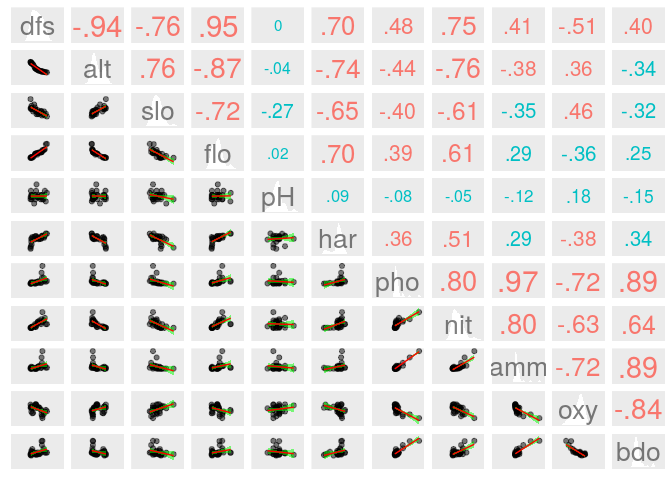
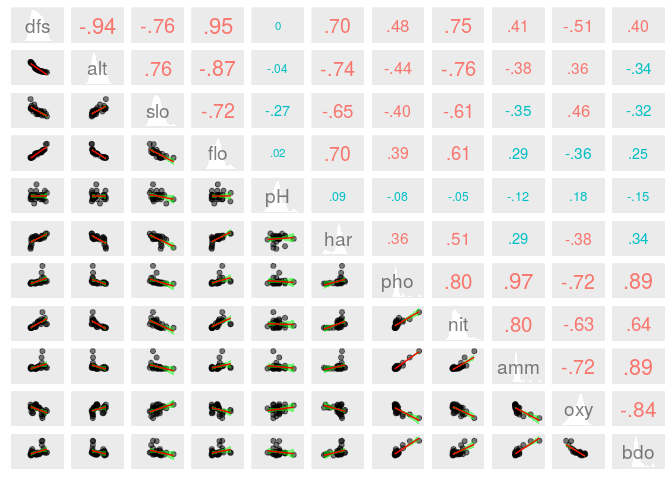
new plots added and introduction-to-r updated

diff --git a/ref/introduccion-a-r.md b/ref/introduccion-a-r.md
@@ -67,11 +67,11 @@ help.search("matrix") #Busca la palabra clave en las ayudas de los paquetes
 Visualización de datos
 ----------------------
 
-Wickham & Grolemund (2017) afirman que, durante la producción de resultados comunicables, subyace la necesidad de realizar el análisis exploratorio de datos (AED o EDA) lo más rápidamente posible. El esquema a continuación, de la misma fuente, resume este proceso:
+Wickham & Grolemund (2017) afirman que, durante la producción de resultados comunicables, subyace la necesidad de realizar el **análisis exploratorio de datos (AED o EDA)** lo más rápidamente posible, pero nunca obviarlo. Subyace la idea de que es necesario aligerar el EDA para descubrir tantos patrones como sea posible sin que haya "pelearse" con los datos para hacer simples gráficos. Esto permitirá al investigador/a concentrarse en interpretar resultados. El esquema a continuación, de la misma fuente, resume este proceso:
 
 <img src="https://es.r4ds.hadley.nz/diagrams_w_text_as_path/es/data-science-explore.svg" width="65%" />
 
-Las múltiples herramientas ofrecidas por los paquetes de la colección `tidyverse` te servirán para agilizar sustancialmente el EDA. Los paquetes `dplyr`, `tidyr` y otros, te ayudarán a importar, ordenar y transformar datos, mientras `ggplot2` te ayudará a crear gráficos estilizados eficientemente. Wickham & Grolemund (2017) aseguran que estas herramientas mantienen la motivación en el aprendizaje por sus flujos de trabajo lineales.
+**Las múltiples herramientas ofrecidas por los paquetes de la colección `tidyverse` te servirán para agilizar sustancialmente el EDA**. Los paquetes `dplyr`, `tidyr` y otros, te ayudarán a importar, ordenar y transformar datos, mientras `ggplot2` te ayudará a crear gráficos estilizados eficientemente. Wickham & Grolemund (2017) aseguran que estas herramientas mantienen la motivación en el aprendizaje por sus flujos de trabajo lineales.
 
 ### El conjunto de datos `doubs`
 
@@ -84,7 +84,7 @@ data(doubs)
 
 > **Nota**. Si no usas el servidor RStudio habilitado por el profesor, instala `ade4` con `install.packages('ade4', dependencies = T)`
 
-La sentencia anterior carga el objeto `doubs` a memoria, pero no lo imprime en pantalla. `doubs` es una lista de 4 tablas o *data.frame*, etiquetadas como `env`-matriz ambiental, `fish`-matriz de comunidad usando abundancia semi-cuantitativa (más explicación abajo), `xy`-matriz de coordenadas de las muestras y `species`-nombres de las 27 especies encontradas. Las filas de los tres primeros *data.frame* corresponden a 30 sitios muestreados a lo largo del río franco-suizo Doubs.
+La sentencia anterior carga el objeto `doubs` a memoria, pero no lo imprime en pantalla. `doubs` es una lista de 4 tablas o `data.frame`, etiquetadas como `env`-matriz ambiental, `fish`-matriz de comunidad usando abundancia semi-cuantitativa (más explicación abajo), `xy`-matriz de coordenadas de las muestras y `species`-nombres de las 27 especies encontradas. Las filas de los tres primeros `data.frame` corresponden a 30 sitios muestreados a lo largo del río franco-suizo Doubs.
 
 <a name="doubs"></a>Como ves, el objeto `doubs` se compone de varios elementos, por lo que es preferible imprimirlo en pantalla por separado. Para imprimir sólo un objeto de una lista, se usa el operador `$`. Así, `doubs$env`, imprime sólo la matriz ambiental.
 
@@ -102,7 +102,7 @@ doubs$env[sample(1:30, 6), ] #Sólo 6 filas mostradas, elegidas al azar
 
 `doubs$env` contiene información ambiental de los 30 sitios de colecta (filas) con las siguientes variables (columnas): `dfs`-distancia desde cabecera (en km x 10), `alt`-altitud (en m), `slo`-pendiente (log(x+1), donde x es la pendiente en tantos por 1000), `flo`-caudal promedio mínimo (m<sup>3</sup>/s 100), `pH` ( x 10), `har`-dureza del agua (mg/l de calcio), `pho`-fostados (mg/l x 100), `nit`-nitratos, `amm`-amoníaco, `nit`-nitrógeno (mg/l x 100), `oxy`-oxígeno disuelto (mg/l x 100), `bdo`-demanda biológica de oxígeno (mg/l x 10)
 
-La tabla `doubs$fish`, asociada a la anterior, contiene la abundancia de especies por sitio. Los valores de las celdas no son individuos; la abundancia está representada en una escala semi-cuantitativa específica por especie, que va de 0 a 5. Por lo tanto, los valores no pueden entenderse como estimadores insesgados de la abundancia real o de la biomasa por sitio (Borcard et al., 2018). La abreviatura usada como nombre de columna se explica en la tabla `doubs$species`.
+La tabla `doubs$fish`, asociada a la anterior, contiene la abundancia de especies por sitio. Los valores de las celdas no son individuos; la abundancia está representada en una escala semi-cuantitativa específica por especie, que va de 0 a 5, es decir, se trata de una escala de pseudo-abundancia más propiamente. Por lo tanto, los valores no pueden entenderse como estimadores insesgados de la abundancia real o de la biomasa por sitio (Borcard et al., 2018).
 
 ``` r
 set.seed(99)
@@ -116,7 +116,7 @@ doubs$fish[sample(1:30, 6), sample(1:27, 6)] #Sólo 6 filas y columnas mostradas
 ## 13    0    5    0    0    0    0
 ```
 
-La tabla `doubs$species` contiene los nombre de las 27 especies de peces.
+Determinados gráficos de ordenación se vuelven ilegibles cuando se usan los nombres completos de las especies. Por tal razón, es práctica común abreviarlos, tal como verás en los nombres de columnas, donde se usan abreviaturas de cuatro caracteres. La correspondencia entre estas abreviaturas y los nombres completos de las especies, se encuentra explicada en la tabla `doubs$species`.
 
 ``` r
 doubs$species
@@ -209,7 +209,7 @@ mite[sample(1:70, 6), sample(1:35, 6)] #Sólo 6 filas y 6 columnas mostradas, el
 ## 46    0        0        0    0    2   22
 ```
 
-`mite.env` contiene datos ambientales de los sitios de colecta, que incluye `SubsDens`-densidad del sustrato (g/L); `WatrCont`-contenido de agua del substrato (g/L); `Substrate`-tipo de substrato, pudiendo tomar los valores `Sphagn1`, `Sphagn2`, `Sphagn3`, `Sphagn`, `Litter`, `Barepeat` e `Interface`; `Shrub`-que indica la densidad de arbustos, pudieno tomar tres posibles niveles `1`, `2` o `3`; finalmente la variable `Topo`-que puede tomar los valores `Blanket` y `Hummock`.
+`mite.env` contiene datos ambientales de los sitios de colecta, que incluye `SubsDens`-densidad del sustrato (g/L); `WatrCont`-contenido de agua del substrato (g/L); `Substrate`-tipo de substrato, pudiendo tomar los valores `Sphagn1`, `Sphagn2`, `Sphagn3`, `Sphagn`, `Litter`, `Barepeat` e `Interface`; `Shrub`-que indica la densidad de arbustos, pudieno tomar tres posibles niveles `None` (ninguno), `Few` (pocos) o `Many` (muchos); finalmente la variable `Topo`-que puede tomar los valores `Blanket` y `Hummock`.
 
 ``` r
 data(mite.env)
@@ -229,7 +229,7 @@ Finalmente, `mite.xy` contiene las coordenadas (con origen arbitrario) de los 70
 ``` r
 data(mite.xy)
 set.seed(50)
-mite.xy[sample(1:70,6),] #Sólo 6 filas mostras, elegidas al azar
+mite.xy[sample(1:70,6),] #Sólo 6 filas mostradas, elegidas al azar
 ##       x   y
 ## 50 0.60 6.9
 ## 31 0.20 4.7
@@ -241,7 +241,7 @@ mite.xy[sample(1:70,6),] #Sólo 6 filas mostras, elegidas al azar
 
 ### Un **"detallito"** sobre matrices de comunidad y ambientales en R
 
-**La mayoría de los paquetes para análisis en ecología asumen que el orden de las filas de ambas matrices es consistente**. Por ejemplo, `vegan` asume que la fila `n` de las matrices de comunidad y ambiental se refieren al mismo "sitio". Si por accidente, o deliberadamente, el usuario reordenara las filas de una matriz, sin hacerlo igualmente en la otra, cualquier análisis que intente poner en relación datos composicionales con ambientales será fútil e inconsistente.
+**La mayoría de los paquetes para análisis en ecología asumen que el orden de las filas de ambas matrices es consistente**. Por ejemplo, `vegan` asume que la fila `n` de las matrices de comunidad y ambiental se refiere al mismo "sitio". Es decir, la fila `n` informa del mismo sitio sobre las especies, y por otro sobre las variables ambientales. Si por accidente, o deliberadamente, el usuario reordenara las filas de una matriz, sin hacerlo igualmente en la otra, cualquier análisis que intente poner en relación datos composicionales con ambientales será fútil e inconsistente.
 
 Se trata de un **pequeño detalle a tener muy presente** al momento de manipular datos ecológicos. Una medida para evitar posibles errores, sería crear columnas de nombres de sitios a partir de los nombres de filas en ambas matrices, justo después de cargarlas. Si se perdiera la integridad entre ambas siempre se podrían hacer uniones a partir de dichas columnas.
 
@@ -302,7 +302,16 @@ ggplot(data = doubs$env) +
 
 ![](../img/intro-doubscatter-out-3.png)
 
-Aunque no son muy informativos sin barras de error, los gráficos de barras pueden ser útiles en determinados contextos. Utilizaré la escala semi-cuantitativa de abundancia para responder a la pregunta: ¿cuál es el nivel de abundancia predominante de `Salmo trutta fario` en la muestra?
+El estético `size` admite variables cuantitativas. El gráfico a continuación nos informa con bastante propiedad sobre una combinación de variables, usando la elevación como estético de tamaño y dureza del dureza del agua como color. Nótese, por ejemplo, que la elevación y están inversamente relacionados, a menor elevación (círculos más pequeños) mayor dureza (rellenos más azules).
+
+``` r
+ggplot(data = doubs$env) +
+  geom_point(mapping = aes(x = dfs, y = flo, size = alt, colour = har))
+```
+
+![](../img/intro-doubscatter-comb-1.png)
+
+Aunque no son muy informativos sin barras de error, los diagramas de barras pueden ser útiles en determinados contextos. Utilizaré la escala semi-cuantitativa de abundancia (pseudo-abundancia) para responder a la pregunta: ¿Cuál es el nivel de pseudo-abundancia predominante de `Salmo trutta fario` en la muestra?
 
 ``` r
 ggplot(data = doubs$fish) + geom_bar(mapping = aes(x=Satr))
@@ -310,7 +319,7 @@ ggplot(data = doubs$fish) + geom_bar(mapping = aes(x=Satr))
 
 ![](../img/intro-doubsbarplot-1.png)
 
-Este gráfico "informa" que el nivel de abundancia más común es 0, es decir, la subespecie está ausente en 13 de los 30 sitios, con lo que es más común no encontrarla. Si ordenásemos las pseudo-abundancias de `Satr` de menor a mayor, podríamos igualmente notar este patrón, lo cual sugiere que el gráfico no aporta mucho más que lo que lo haría un vector ordenado.
+Este gráfico "informa" que el nivel de de pseudo-abundancia más común es 0, es decir, la subespecie está ausente en 13 de los 30 sitios, con lo que es más común no encontrarla. Si ordenásemos las pseudo-abundancias de `Satr` de menor a mayor, podríamos igualmente notar este patrón, lo cual sugiere que el gráfico no aporta mucho más que lo que lo haría un vector ordenado.
 
 ``` r
 sort(doubs$fish[,2])
@@ -356,13 +365,66 @@ ggplot(data = grupos_numerosos) +
 
 ¿Qué patrón percibes? Compara la heterogeneidad ambiental en los bosques viejos sobre vertiente (`OldSlope`) con la de los demás hábitats. ¿Qué diferencias notas?
 
-Finalmente, veamos algunos gráficos con el conjunto de datos `mite`.
+El histograma es otra herramienta gráfica utilizada en el EDA. Nos informa sobre las características de la distribución (sesgo, varianza, etc.) de la muestra respecto de una variable cuantativa. Te recomiendo que estudies sobre los conceptos y la interpretación del histograma, comenzando si lo deseas por [Wikipedia](https://es.wikipedia.org/wiki/Histograma), pero no olvides utilizar referencias sobre su uso en ecología (Borcard et al., 2018). El siguiente histograma muestra la distribución de dos variables ambientales del conjunto de datos `mite`. El primero muestra la densidad de substrato, el segundo el contenido de agua.
 
-### Facetas o paneles
+``` r
+ggplot(data = mite.env) +
+  geom_histogram(mapping = aes(x = SubsDens))
+## `stat_bin()` using `bins = 30`. Pick better value with `binwidth`.
+```
 
-Es posible probar con otros pares de variables, par a par, pero `ggplot2` trae funciones incorporadas para asistirte en dicha tarea, construyendo facetas o paneles de gráficos.
+![](../img/intro-mitehist1-1.png)
 
-### Panel de correlaciones
+``` r
+
+ggplot(data = mite.env) +
+  geom_histogram(mapping = aes(x = WatrCont))
+## `stat_bin()` using `bins = 30`. Pick better value with `binwidth`.
+```
+
+![](../img/intro-mitehist1-2.png)
+
+El gráfico es informativo, y de hecho se observan patrones, pero las barras están separadas; mientras más pequeña es la muestra, peor se verá el resultado. Antes de interpretarlo es preferible corregirlo. Para ello, se podría usar el consejo que aparece en la advertencia devuelta por la consola (elegir una anchura de intervalo mejor), aunque por simplicidad es reduciré el número de intervalos. Los gráficos siguientes muestran un mejor resultado:
+
+``` r
+ggplot(data = mite.env) +
+  geom_histogram(mapping = aes(x = SubsDens), bins = 15)
+```
+
+![](../img/intro-mitehist2-1.png)
+
+``` r
+
+ggplot(data = mite.env) +
+  geom_histogram(mapping = aes(x = WatrCont), bins = 15)
+```
+
+![](../img/intro-mitehist2-2.png)
+
+El resultado es más legible ahora. En ambos casos podemos ver que existe un sesgo a la derecha (o positivo), más acentuado en la variable `SubsDens` que en `WatrCont`. Esto significa que la media probablemente está a la derecha del intervalo modal, es decir, los valores extremos "tiran" de ella hacia la derecha, un hecho evidente especialmente en el histograma de la densidad de substrato. Notarás igualmente que el histograma de la variable `WatrCont` se aproxima más a una forma acampanada, mientras que el histograma de `SubsDens` está un poco más alejado de dicha forma. En ecología, la mayoría de los datos no muestran distribución normal, por lo que las técnicas de estadística paramétrica en muchos casos son inútiles (Borcard et al., 2018). El histograma es el primer paso para descubrir este fenómeno, y es sin duda de gran ayuda para elegir apropiadamente las técnicas a utilizar. A modo de referencia, incluyo a continuación un histograma con forma acampanada de una muestra ficticia de 5000 elementos construida a partir de desviaciones aleatorias usando la distribución normal.
+
+``` r
+set.seed(500)
+alenorm <- data.frame(alenorm = rnorm(5000))
+ggplot(data = alenorm) +
+  geom_histogram(mapping = aes(x = alenorm), bins = 50)
+```
+
+![](../img/intro-campana-1.png)
+
+Finalmente, introduzco a continuación los gráficos de facetas o paneles, una herramienta muy potente de `ggplot2`. Para ello, utilizaré el conjunto de datos `mite`. Supón que necesitas mostrar el comportamiento de una variable en un único panel, para tener una idea rápida de tu muestra (también se pueden hacer paneles de muchas variables, previa reorganización de los datos con `tidyr`, pero eso lo veremos más adelante). La función `facet_grid` es tu aliada. Supongamos que necesitamos ver diagramas de dispersión de la densidad de substrato y el contenido de agua para cada uno de los subconjuntos de muestra según densidad de arbustos (recordemos que existen tres tipos de densidades de arbustos: `None<Few<Many`). Esto podría ser útil para evaluar si existe algún grado de asociación diferente entre los distintos subconjuntos. Veamos el gráfico
+
+``` r
+ggplot(mite.env) +
+  geom_point(aes(x = SubsDens, y = WatrCont)) +
+  facet_wrap(~Shrub)
+```
+
+![](../img/intro-facet-1.png)
+
+El panel está mostrando que existe correlación entre las variables densidad de substrato y contenido de agua para los subconjuntos de sitios donde hay pocos o nulos arbustos. En los sitios donde hay muchos arbustos, la correlación se difumina ligeramente, porque aparecen valores atípicos que habría que tratar de manera especial.
+
+### BONUS: panel de correlaciones
 
 El paquete `ez`, apoyándose en `ggplot2`, construye gráficos de dispersión, gráficos de densidad e imprime a su vez el valor del coeficiente `r`. Muy útil cuando se quiere explorar muchas variables al mismo tiempo. Fíjate en este útil panel de correlaciones usando el conjunto `doubs`.
 
@@ -370,80 +432,22 @@ El paquete `ez`, apoyándose en `ggplot2`, construye gráficos de dispersión, g
 library(ez)
 ezCor(
   doubs$env,
-  r_size_lims = c(4,8),
-  label_size = 7
+  r_size_lims = c(3,6),
+  label_size = 5
 )
 ```
 
 ![](../img/intro-doubsezscatter-1.png)
 
-> **Nota**. la función `ezCor` sólo admite `data.frame` compuestos por columnas numéricas.
+> **Nota**. la función `ezCor` sólo admite `data.frame` de columnas numéricas.
 
-Aunque los paquetes de análisis de datos ecológicos no están "saborizados" al estilo `tidyverse`, al menos el EDA lo podrás realizar utilizando tuberías de esta potente colección de paquetes.
+Conclusión
+----------
 
-``` r
-dfs_flo <- doubs$env %>% select(dfs, flo)
-dfs_flo
-##     dfs  flo
-## 1     3   84
-## 2    22  100
-## 3   102  180
-## 4   185  253
-## 5   215  264
-## 6   324  286
-## 7   268  400
-## 8   491  130
-## 9   705  480
-## 10  990 1000
-## 11 1234 1990
-## 12 1324 2000
-## 13 1436 2110
-## 14 1522 2120
-## 15 1645 2300
-## 16 1859 1610
-## 17 1985 2430
-## 18 2110 2500
-## 19 2246 2590
-## 20 2477 2680
-## 21 2812 2720
-## 22 2940 2790
-## 23 3043 2880
-## 24 3147 2976
-## 25 3278 3870
-## 26 3579 3910
-## 27 3732 3960
-## 28 3947 4320
-## 29 4220 6770
-## 30 4530 6900
-```
+Conociste las herramientas básicas para realizar un EDA ágilmente y generando gráficos informativos. **El EDA es un paso imprescindible en cualquier investigación**, así que, ya que no te lo podrás saltar, es necesario que practiques con los datos de ejemplo mostrados aquí, o con los tuyos propiamente.
 
-El operador `%>%`, bautizado como "pipa" (*pipe*), pertenece al paquete `magrittr`, el cual es importado automáticamente cuando se instala la colección `tidyverse`. Este operador utiliza la salida de la función a su izquierda y la coloca como primer argumento de la función a la derecha. Así, la sentencia anterior se lee como "del objeto `doubs$env`, selecciona las columnas `dfs` y `flo` y con el resultado crea el objeto `dfs_flo`".
+Aunque los paquetes de análisis de datos ecológicos no están "saborizados" al estilo `tidyverse`, al menos el EDA lo podrás realizar utilizando tuberías de esta potente colección de paquetes. Conocerás más herramientas en el siguiente capítulo de esta novela.
 
-<!-- ## Directorio de trabajo -->
-<!-- * Para consultar tu directorio de trabajo en R: `getwd()`. -->
-<!-- * Si usas el servidor RStudio habilitado por el profesor, la ruta por defecto será algo parecido a ésto: `'/home/<tunombredeusuario>'`. Esta ruta se denomina "carpeta personal". -->
-<!-- * Puedes cambiar tu directorio de trabajo mediante `setwd('<rutademipreferencia>')`. -->
-<!-- ## Objetos -->
-<!-- ### Crear objetos -->
-<!-- El operador de asignación ` <- ` te da la bienvenida, aunque también se puede escribir ` -> `. Transfórmalo en una flecha: hacia donde apunta es el valor que asume el nombre de objeto que se encuentra en el lado contrario. Lee `a <- 'Hola R'` como al objeto `a` es un vector cuyo valor es la cadena de caracteres `'Hola R'`. Creado el objeto, pedimos por ejemplo que se nos muestre su valor. En la consola se vería así: -->
-<!-- ```{r} -->
-<!-- a <- 'Hola R' -->
-<!-- a -->
-<!-- ``` -->
-<!-- Al escribir `a` estamos llamando el objeto, y pedimos que se imprima su valor. Es equivalente a: -->
-<!-- ```{r} -->
-<!-- print(a) -->
-<!-- ``` -->
-<!-- Encontrarás largas discusiones y acalorados debates sobre si usar ` <- ` como asignador o `=`. Por limpieza de código, y para evitar confusión entre argumentos de funciones y declaraciones de objetos, recomiendo usar ` <- ` como asignador. -->
-<!-- ### Tipos -->
-<!-- ### Guardar -->
-<!-- ## Scripts -->
-<!-- * Crear. -->
-<!-- * Guardar. -->
-<!-- ## Tablas (`data.frame`, `tibble`) -->
-<!-- * Crear. -->
-<!-- * Importar. -->
-<!-- * Operaciones básicas. -->
 Situaciones comunes
 -------------------
 
